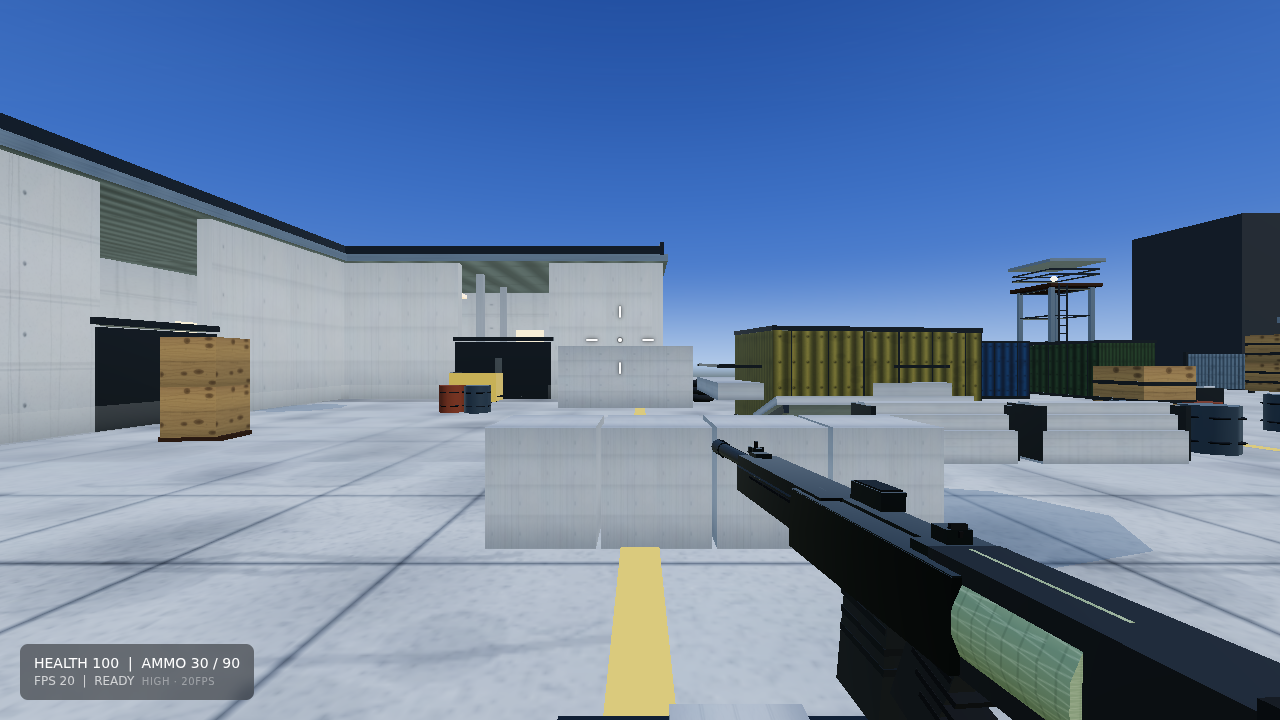
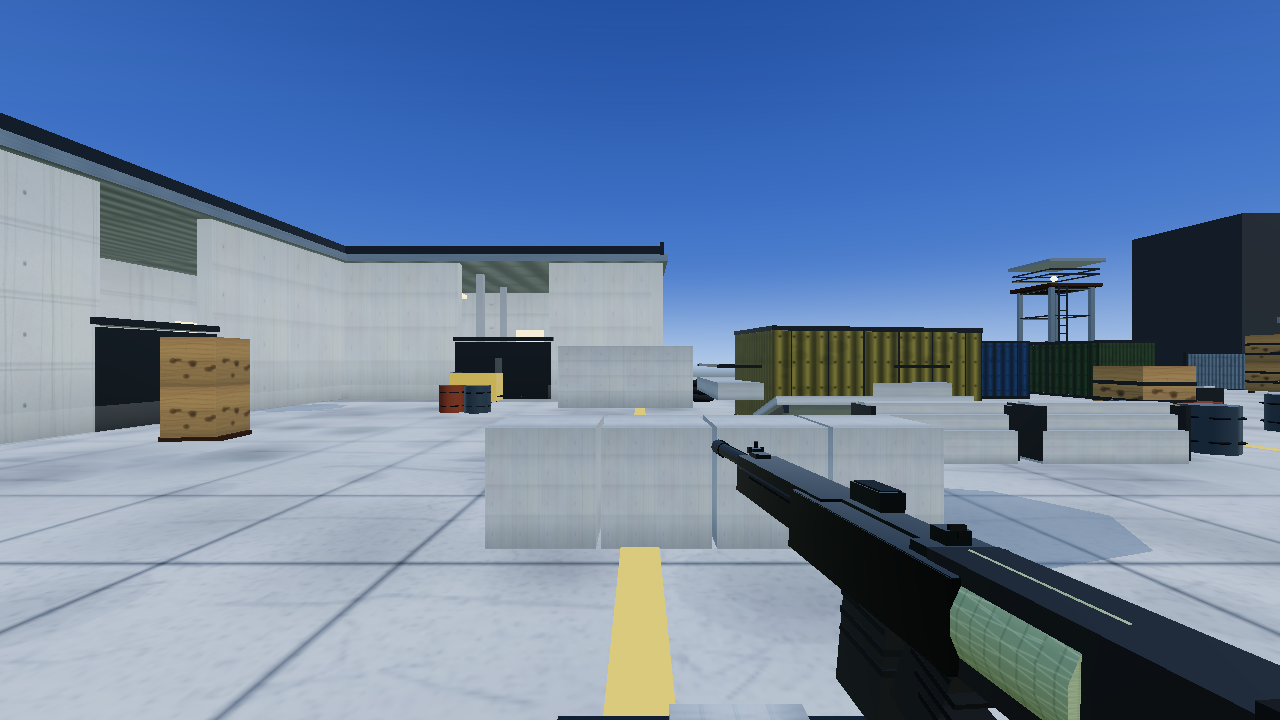
docs: refresh final playable-game screenshots from public URL

diff --git a/README.md b/README.md
@@ -117,7 +117,10 @@ A1PlaywrightProject/
 │   ├── desktop-gameplay.png# 1280×720 in-combat
 │   ├── desktop-hd.png      # 1920×1080
 │   ├── mobile.png          # 390×844 touch
-│   └── thumb-menu.png      # copy of desktop-menu.png
+│   ├── thumb-menu.png      # copy of desktop-menu.png
+│   ├── final-menu.png      # 1280×720 lobby (public URL, overlay visible)
+│   ├── final-gameplay.png  # 1280×720 in-combat (overlay hidden)
+│   └── final-mobile.png    # 390×844 touch (public URL)
 ├── AGENTS.md               # always-commit rule
 └── package.json
 ```
